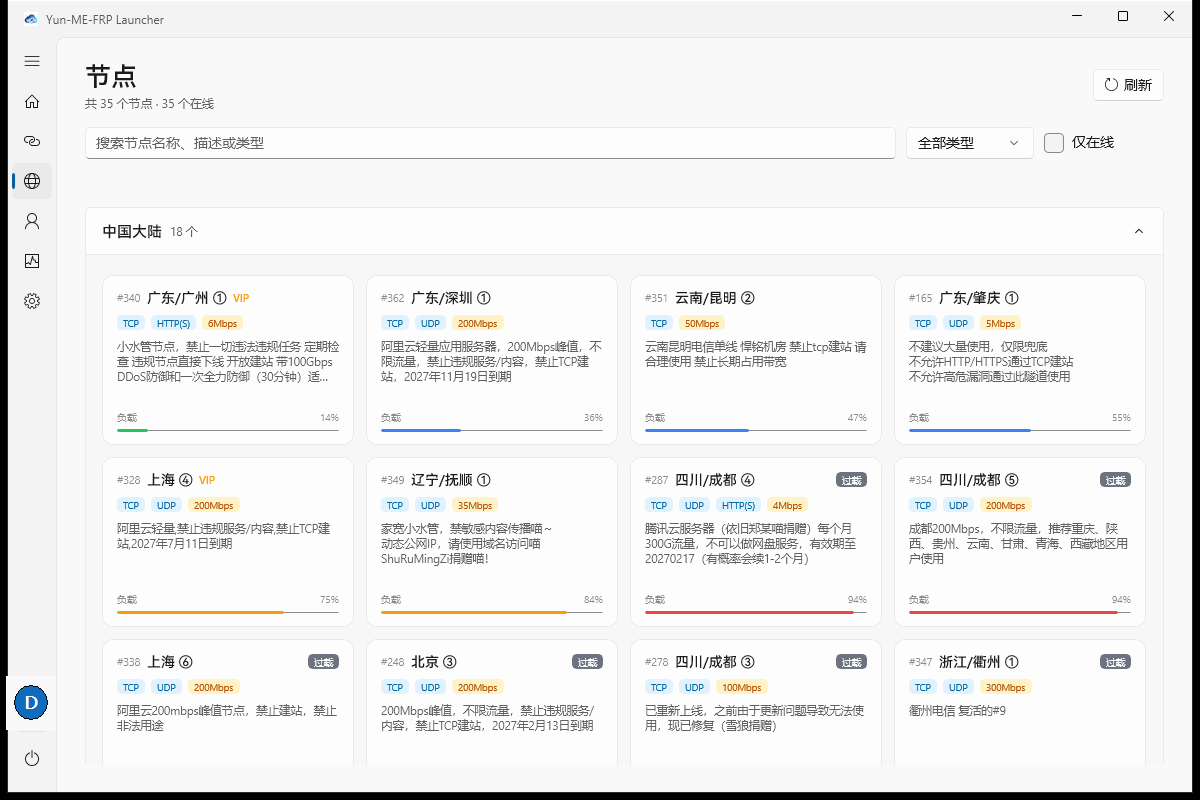
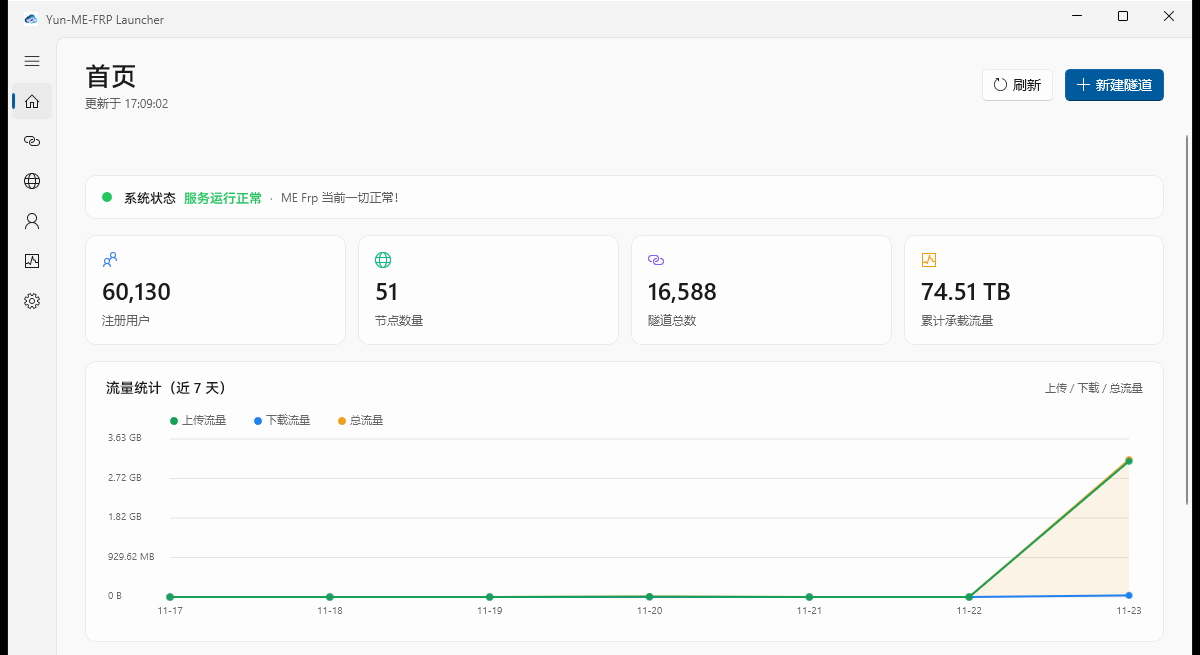
feat(yml): 文档页新增界面预览轮播并补全产品截图
- 新增「界面预览」区块：左右箭头切换、指示器、点击放大查看
- 截图 6 张：首页概览、隧道管理、节点监控、新建隧道、运行日志、账户信息
- 隧道管理的节点/本地地址/访问地址、账户页的邮箱/UID/frpToken 均做多轮马赛克
- 首页截图裁去右下个人卡片，只保留平台级统计与流量曲线
- 修正产品页「查看文档」：站内路由不再 target=_blank（新标签被拦截导致空白页）

diff --git a/src/pages/docs/yml.vue b/src/pages/docs/yml.vue
@@ -96,6 +96,64 @@
       </div>
     </div>
 
+    <!-- 界面预览 -->
+    <div ref="previewRef" class="mb-8 glass-card rounded-xl overflow-hidden scroll-animate hover-lift"
+      :class="{ 'visible': previewVisible }">
+      <div class="p-6 border-b border-white/10">
+        <h2 class="text-xl font-semibold text-white">界面预览</h2>
+      </div>
+
+      <div class="p-6">
+        <div class="relative rounded-lg overflow-hidden bg-gray-900/50">
+          <div class="relative w-full aspect-video flex items-center justify-center">
+            <img :key="currentImageIndex" :src="previewImages[currentImageIndex].src"
+              :alt="previewImages[currentImageIndex].alt + ' - Yun-ME-FRP Launcher 界面截图'"
+              class="max-w-full max-h-full object-contain cursor-pointer" loading="lazy"
+              @click="openImageModal(currentImageIndex)" />
+
+            <div class="absolute bottom-0 left-0 right-0 bg-gradient-to-t from-black/80 to-transparent p-4">
+              <p class="text-white text-center font-medium">{{ previewImages[currentImageIndex].alt }}</p>
+            </div>
+          </div>
+
+          <button @click="previousImage"
+            class="absolute left-4 top-1/2 transform -translate-y-1/2 bg-black/50 hover:bg-black/70 text-white p-2 rounded-full transition-colors"
+            :disabled="previewImages.length <= 1">
+            <UIcon name="i-lucide-chevron-left" class="size-5" />
+          </button>
+
+          <button @click="nextImage"
+            class="absolute right-4 top-1/2 transform -translate-y-1/2 bg-black/50 hover:bg-black/70 text-white p-2 rounded-full transition-colors"
+            :disabled="previewImages.length <= 1">
+            <UIcon name="i-lucide-chevron-right" class="size-5" />
+          </button>
+        </div>
+
+        <!-- 指示器 -->
+        <div class="mt-4 flex justify-center items-center space-x-2">
+          <button v-for="(image, index) in previewImages" :key="'dot-' + index" @click="currentImageIndex = index"
+            class="h-2 rounded-full transition-all"
+            :class="index === currentImageIndex ? 'bg-primary-400 w-6' : 'bg-white/20 w-2 hover:bg-white/40'"
+            :aria-label="image.alt" />
+        </div>
+      </div>
+    </div>
+
+    <!-- 图片放大模态框 -->
+    <Teleport to="body">
+      <div v-if="showImageModal" class="fixed inset-0 z-50 flex items-center justify-center bg-black/80 backdrop-blur-sm"
+        @click="showImageModal = false">
+        <div class="relative max-w-[90vw] max-h-[90vh]">
+          <img :src="modalImage.src" :alt="modalImage.alt" class="max-w-full max-h-[90vh] object-contain rounded-lg" />
+          <button @click="showImageModal = false"
+            class="absolute top-4 right-4 bg-black/50 hover:bg-black/70 text-white p-2 rounded-full transition-colors">
+            <UIcon name="i-lucide-x" class="size-5" />
+          </button>
+          <p class="text-white text-center mt-4 font-medium">{{ modalImage.alt }}</p>
+        </div>
+      </div>
+    </Teleport>
+
     <!-- 下载安装 -->
     <div ref="downloadRef" class="mb-8 glass-card rounded-xl overflow-hidden scroll-animate hover-lift"
       :class="{ 'visible': downloadVisible }">
@@ -290,10 +348,41 @@ definePageMeta({
 
 // 滚动动画
 const { elementRef: introRef, isVisible: introVisible } = useScrollAnimation()
+const { elementRef: previewRef, isVisible: previewVisible } = useScrollAnimation()
 const { elementRef: downloadRef, isVisible: downloadVisible } = useScrollAnimation()
 const { elementRef: guideRef, isVisible: guideVisible } = useScrollAnimation()
 const { elementRef: updateRef, isVisible: updateVisible } = useScrollAnimation()
 const { elementRef: linksRef, isVisible: linksVisible } = useScrollAnimation()
+
+// 界面预览图（本地静态资源）
+// 隧道管理、账户两页涉及真实 IP / 邮箱 / UID / token，已做多轮马赛克处理
+const previewImages = [
+  { src: '/images/views/yml/home.png', alt: '首页概览' },
+  { src: '/images/views/yml/tunnel.png', alt: '隧道管理' },
+  { src: '/images/views/yml/nodes.png', alt: '节点监控' },
+  { src: '/images/views/yml/create.png', alt: '新建隧道' },
+  { src: '/images/views/yml/logs.png', alt: '运行日志' },
+  { src: '/images/views/yml/account.png', alt: '账户信息' }
+]
+
+const currentImageIndex = ref(0)
+const showImageModal = ref(false)
+const modalImage = ref({ src: '', alt: '' })
+
+const openImageModal = (index: number) => {
+  const img = previewImages[index]
+  if (!img) return
+  modalImage.value = { src: img.src, alt: img.alt }
+  showImageModal.value = true
+}
+
+const nextImage = () => {
+  currentImageIndex.value = (currentImageIndex.value + 1) % previewImages.length
+}
+
+const previousImage = () => {
+  currentImageIndex.value = currentImageIndex.value === 0 ? previewImages.length - 1 : currentImageIndex.value - 1
+}
 
 // 更新日志
 const { updates, loading, error, fetchChangelog } = useProductChangelog('yml')

diff --git a/src/pages/products.vue b/src/pages/products.vue
@@ -74,8 +74,9 @@
 
             <!-- 操作按钮 -->
             <div class="flex flex-col sm:flex-row gap-4">
-              <UButton size="lg" color="primary" :to="product.link" target="_blank" class="btn-glow cursor-pointer">
-                <UIcon name="i-lucide-external-link" class="size-5 mr-2" />
+              <UButton size="lg" color="primary" :to="product.link"
+                :target="product.link.startsWith('http') ? '_blank' : undefined" class="btn-glow cursor-pointer">
+                <UIcon :name="product.link.startsWith('http') ? 'i-lucide-external-link' : 'i-lucide-book-open'" class="size-5 mr-2" />
                 查看文档
               </UButton>
             </div>
